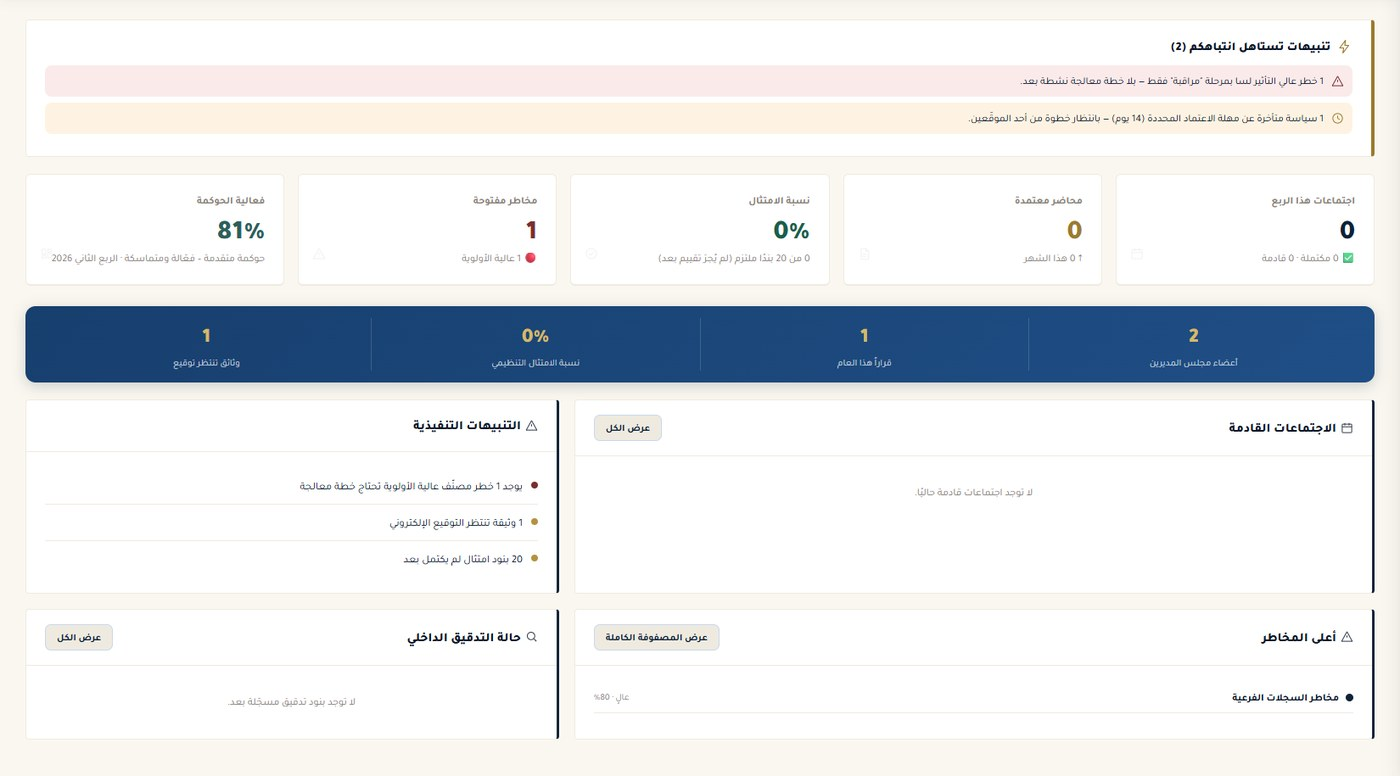
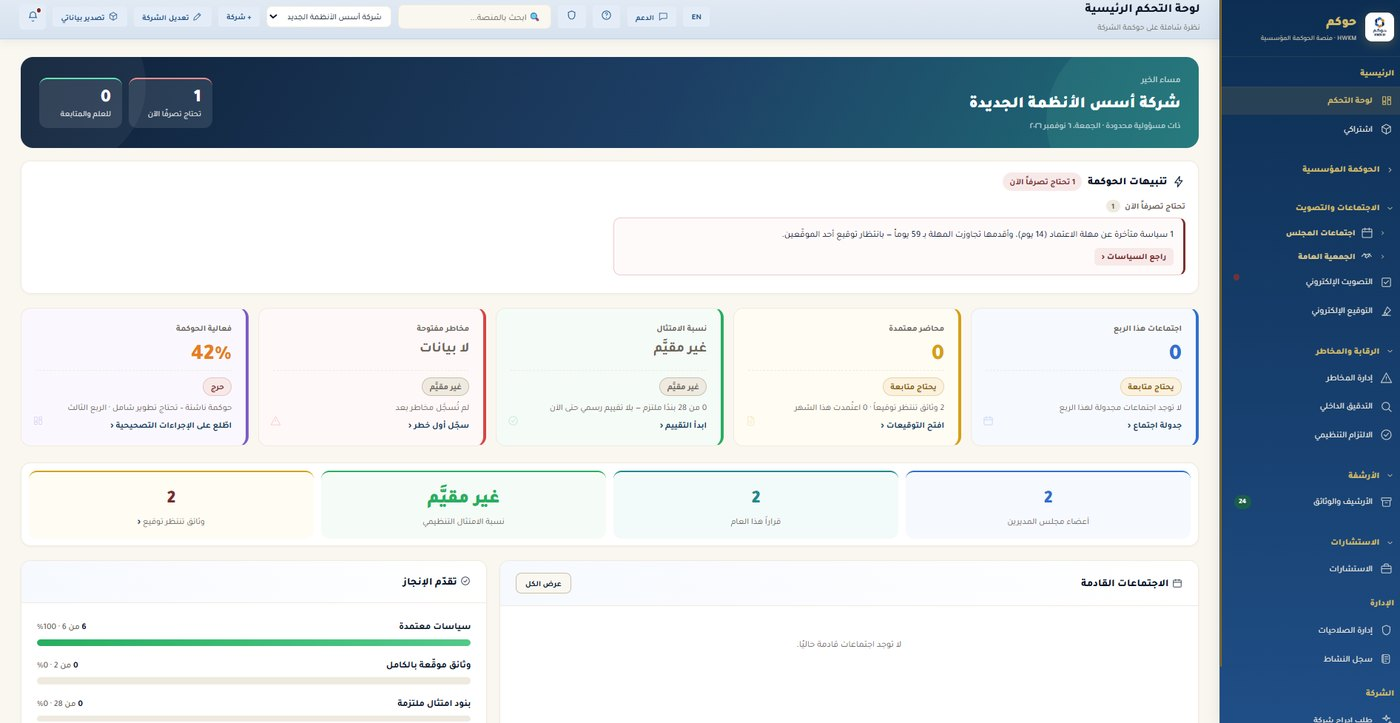
Home pages: use a current dashboard screenshot of the platform
Claude-Session: https://claude.ai/code/session_01CMoUtSymx4E9gh4FduSbBf

diff --git a/index.html b/index.html
@@ -30,7 +30,7 @@
 <link href="/assets/apple-touch-icon.png" rel="apple-touch-icon"/>
 <link href="https://fonts.googleapis.com" rel="preconnect"/>
 <link crossorigin="" href="https://fonts.gstatic.com" rel="preconnect"/>
-<link as="image" fetchpriority="high" href="/assets/platform-dashboard.webp" rel="preload" type="image/webp"/>
+<link as="image" fetchpriority="high" href="/assets/platform-dashboard.webp?v=2" rel="preload" type="image/webp"/>
 <link href="https://fonts.googleapis.com/css2?family=Tajawal:wght@300;400;500;700;800;900&amp;family=Amiri:wght@400;700&amp;display=swap" rel="stylesheet"/>
 <script type="application/ld+json">
 {
@@ -553,7 +553,7 @@ try{ if(localStorage.getItem('hwkm_consent')==='granted') window.hwkmLoadTikTok(
 </div>
 <div class="hero-visual">
 <div class="hero-logo-wrap" style="overflow:hidden;padding:0;background:transparent;border:2px solid rgba(184,151,42,.4)">
-<picture><source srcset="/assets/platform-dashboard.webp" type="image/webp"><img alt="لوحة التحكم الرئيسية في منصة حوكم للحوكمة والمخاطر والامتثال" decoding="async" fetchpriority="high" height="776" src="/assets/platform-dashboard.jpg" width="1400"/></source></picture>
+<picture><source srcset="/assets/platform-dashboard.webp?v=2" type="image/webp"><img alt="لوحة التحكم الرئيسية في منصة حوكم للحوكمة والمخاطر والامتثال" decoding="async" fetchpriority="high" height="723" src="/assets/platform-dashboard.jpg?v=2" width="1400"/></source></picture>
 </div>
 </div>
 </div>

diff --git a/en/index.html b/en/index.html
@@ -30,7 +30,7 @@
 <link href="/assets/apple-touch-icon.png" rel="apple-touch-icon"/>
 <link href="https://fonts.googleapis.com" rel="preconnect"/>
 <link crossorigin="" href="https://fonts.gstatic.com" rel="preconnect"/>
-<link as="image" fetchpriority="high" href="/assets/platform-dashboard.webp" rel="preload" type="image/webp"/>
+<link as="image" fetchpriority="high" href="/assets/platform-dashboard.webp?v=2" rel="preload" type="image/webp"/>
 <link href="https://fonts.googleapis.com/css2?family=Tajawal:wght@300;400;500;700;800;900&amp;family=Amiri:wght@400;700&amp;display=swap" rel="stylesheet"/>
 <script type="application/ld+json">
 {
@@ -567,7 +567,7 @@ html[dir=ltr] .consent-bar p{text-align:left}
 </div>
 <div class="hero-visual">
 <div class="hero-logo-wrap" style="overflow:hidden;padding:0;background:transparent;border:2px solid rgba(184,151,42,.4)">
-<picture><source srcset="/assets/platform-dashboard.webp" type="image/webp"><img alt="The main dashboard of the HWKM governance, risk and compliance platform" decoding="async" fetchpriority="high" height="776" src="/assets/platform-dashboard.jpg" width="1400"/></source></picture>
+<picture><source srcset="/assets/platform-dashboard.webp?v=2" type="image/webp"><img alt="The main dashboard of the HWKM governance, risk and compliance platform" decoding="async" fetchpriority="high" height="723" src="/assets/platform-dashboard.jpg?v=2" width="1400"/></source></picture>
 </div>
 </div>
 </div>
